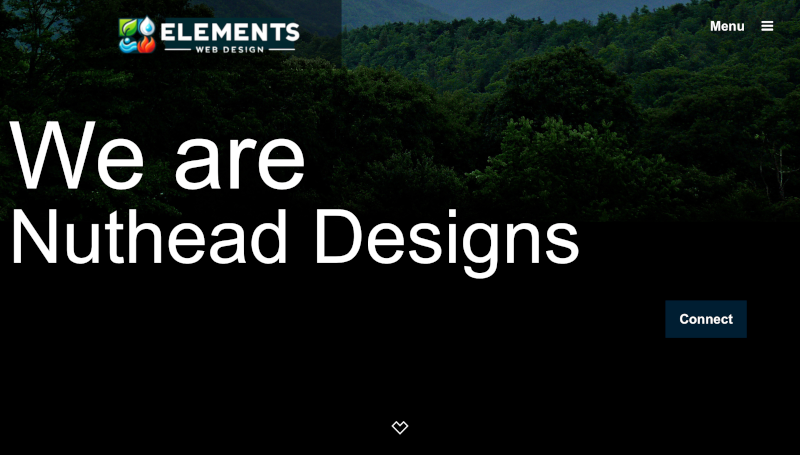
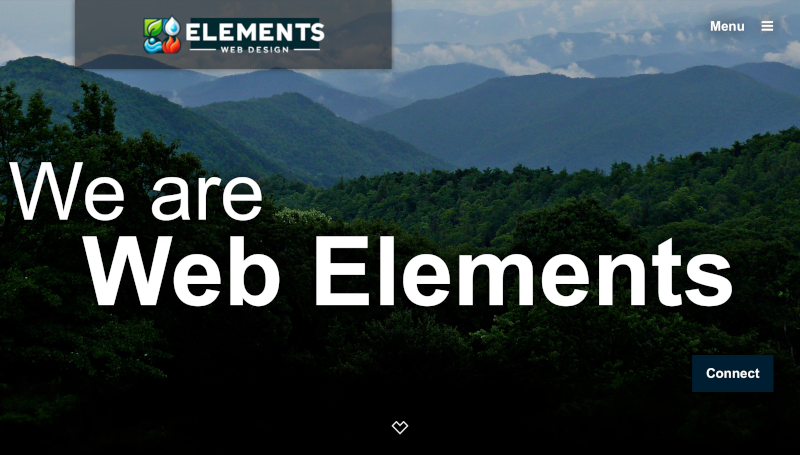
Polishing design and preview

diff --git a/layouts/main.html b/layouts/main.html
@@ -11,8 +11,13 @@
             }
 
             .header {
-                background: url("https://unsplash.it/2560/800") center center no-repeat;
+                background: linear-gradient(0deg, rgb(10, 10, 10) 0%, rgb(40, 40, 40) 100%);
+                background-color: rgb(15, 20, 25);
+                background-image: url("https://unsplash.it/2560/800");
+                background-position: bottom center;
+                background-repeat: no-repeat;
                 background-size: cover;
+                box-shadow: 0 0 5px #000;
                 color: #fff;
                 font-family: Halcom-Bold, Bold-Fallback, Arial, sans-serif;
                 font-size: 1.5em;
@@ -28,6 +33,7 @@
 
             .header .logo a {
                 background: rgba(0, 0, 0, 50%);
+                box-shadow: 0 0 10px rgba(0, 0, 0, 50%);
                 color: #fff;
                 display: block;
                 font-size: 2em;
@@ -50,13 +56,14 @@
             }
 
             .header .navigation-inside {
-                background: rgba(256, 256, 256, 50%);
+                background: rgba(256, 256, 256, 60%);
+                box-shadow: 0 0 5px rgba(0, 0, 0, 50%);
                 display: inline;
                 padding: 0.5em 0;
             }
 
             .header .navigation .navigation-inside:hover {
-                background: rgba(200, 200, 200, 50%);
+                background: rgba(200, 200, 200, 60%);
             }
 
             .header .navigation li li {
@@ -109,6 +116,21 @@
                 background: rgba(200, 200, 200, 60%);
             }
 
+            @media screen and (max-width: 39.9375em) {
+                .header .navigation li:hover {
+                    background: rgba(255, 255, 255, 60%);
+                }
+
+                .header .navigation li:last-child:hover {
+                    background: none;
+                }
+
+                .header .navigation li:last-child a {
+                    margin: 0;
+                    padding: 0;
+                }
+            }
+
             .header .subtitle {
                 margin: 0.5em 0 0;
                 line-height: 0.8em;
@@ -122,6 +144,7 @@
 
             .footer {
                 background: rgb(0, 15, 25) url("assets/images/content/agency-bg-bottom-inside.jpg") center center no-repeat;
+                box-shadow: 0 0 5px #000;
                 color: #fff;
                 font-size: 1em;
                 font-weight: bold;

diff --git a/layouts/home.html b/layouts/home.html
@@ -28,12 +28,19 @@
 
             @media screen and (min-width: 40em) {
                 .header {
-                    height: 1000px;
+                    height: 800px;
+                }
+            }
+
+            @media screen and (min-width: 60em) {
+                .header {
+                    height: 960px;
                 }
             }
 
             .header .logo a {
                 background: rgba(0, 0, 0, 50%);
+                box-shadow: 0 0 10px rgba(0, 0, 0, 50%);
                 color: #fff;
                 display: block;
                 font-size: 2em;
@@ -61,6 +68,16 @@
 
             .header .navigation .navigation-inside:hover {
                 background: rgba(200, 200, 200, 50%);
+            }
+
+            @media screen and (max-width: 39.9375em) {
+                .header .navigation .navigation-inside:hover {
+                    background: none;
+                }
+
+                .header .navigation li:hover {
+                    background: rgba(200, 200, 200, 50%);
+                }
             }
 
             .header .navigation li li {
@@ -109,8 +126,8 @@
             }
 
             .header .subtitle {
-                margin: 0.5em 0 0;
-                font-size: 6em;
+                margin: 1em 0 0.2em;
+                font-size: 10vw;
                 font-weight: 100;
                 line-height: 1em;
             }
@@ -479,7 +496,7 @@
                     <br />
                 </div>
 
-                <div class="subtitle columns show-for-large large-12 rellax wow animate__slideInLeft" data-rellax-speed="2" data-wow-duration="2s">
+                <div class="subtitle columns show-for-medium medium-12 rellax wow animate__slideInLeft" data-rellax-speed="2" data-wow-duration="2s">
                     We are
                     <div class="brand row expanded">
                         <div class="columns small-1"></div>
